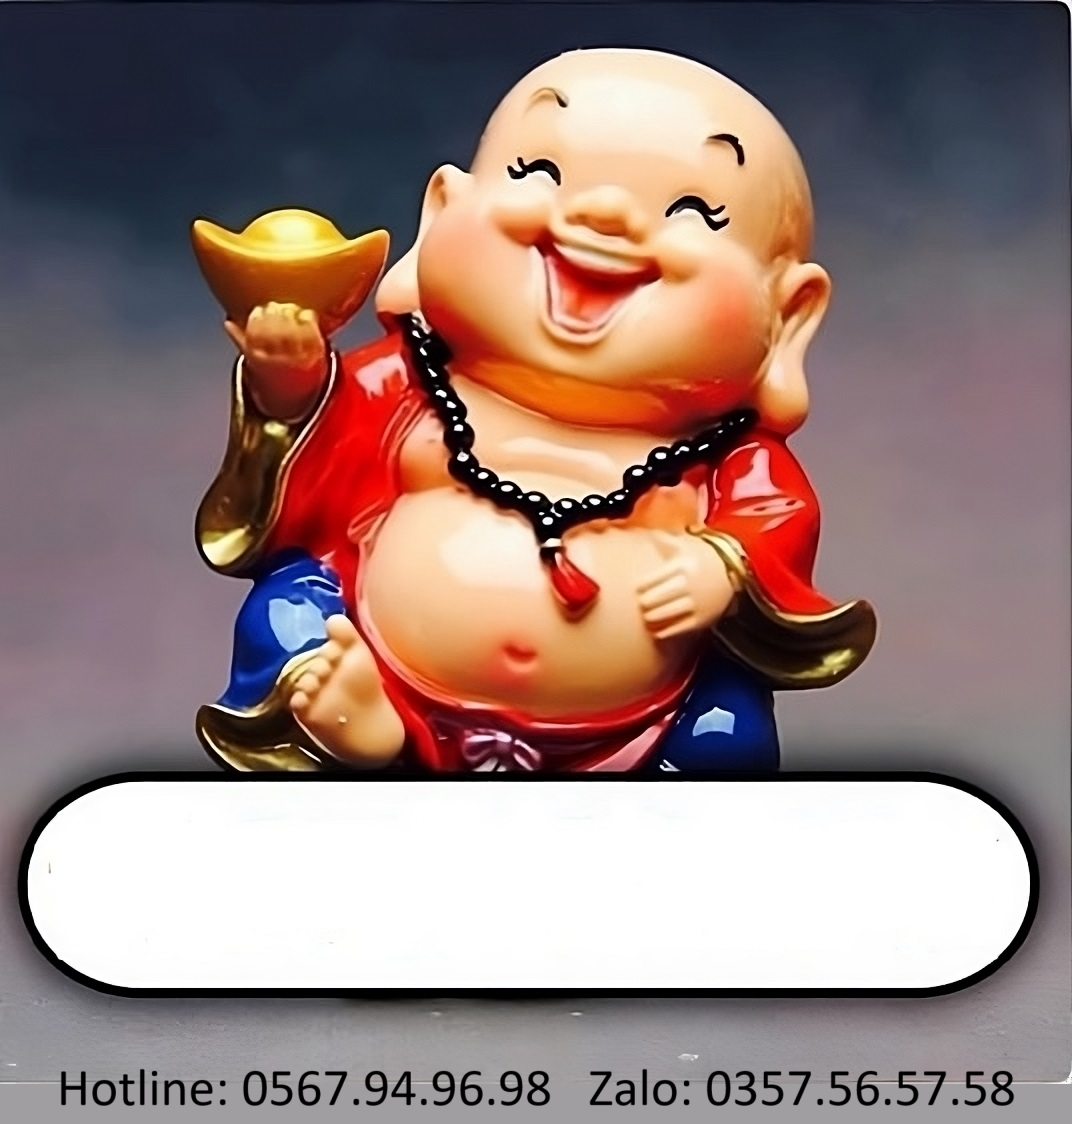
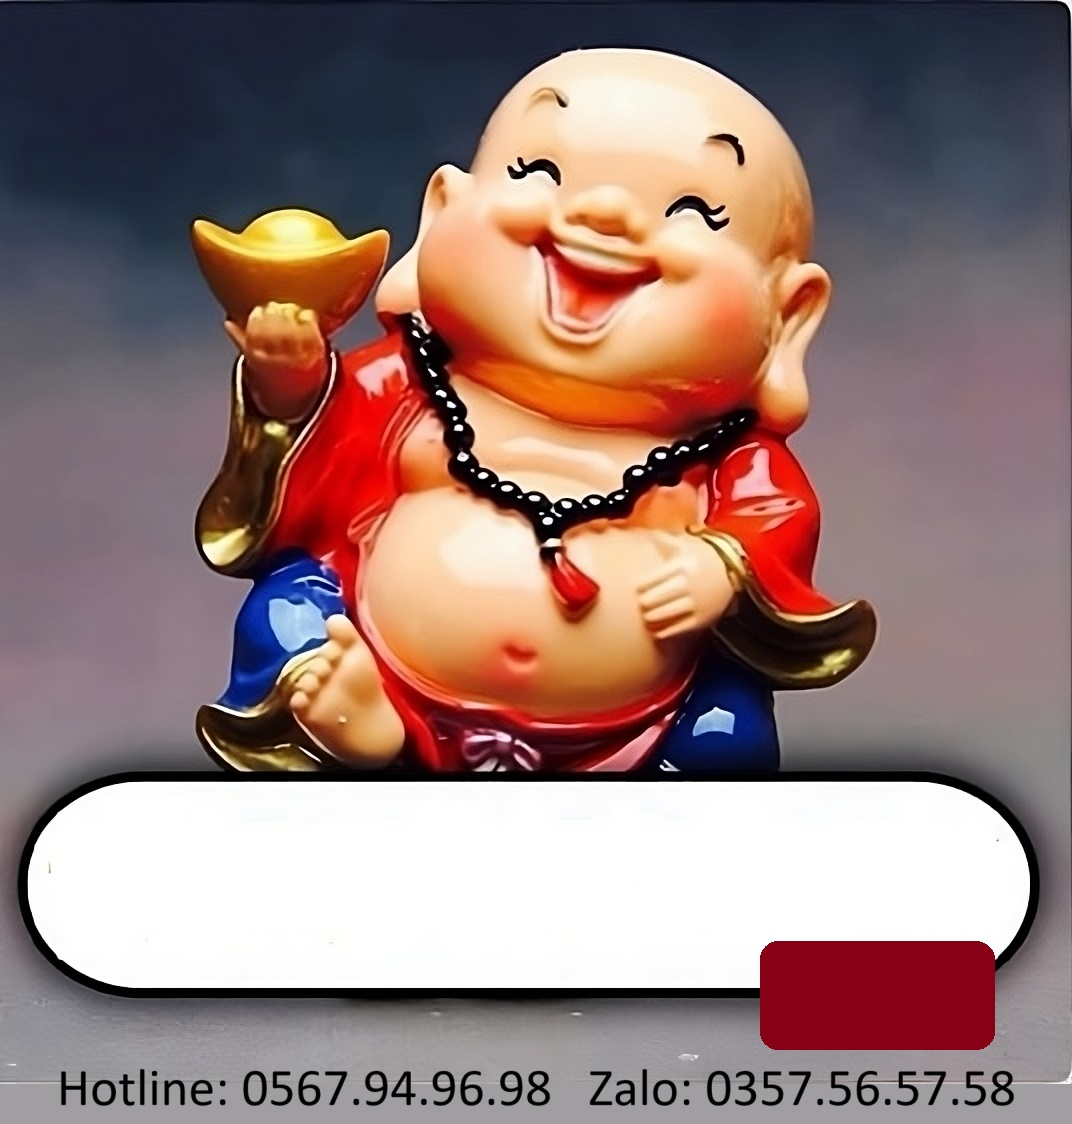
fix text pos

Changed region(s): [[0.708, 0.8096, 0.9543, 0.9342]]

diff --git a/src/App.js b/src/App.js
@@ -39,13 +39,13 @@ const textStyle = [
     type: 1,
     downloadStyle: {
       phoneNumberCoor: { x: 150, y: 425, fontSize: "170px", color: RED },
-      typeCoor: { x: 30, y: 150, fontSize: "80px", color: "black" },
-      priceCoor: { x: 1030, y: 150, fontSize: "80px", color: "black" },
+      typeCoor: { x: 30, y: 150, fontSize: "100px", color: "black" },
+      priceCoor: { x: 900, y: 550, fontSize: "100px", color: "black" },
     },
     previewStyle: {
       phoneNumberCoor: { x: 35, y: 127, fontSize: "55px", color: RED },
       typeCoor: { x: 10, y: 45, fontSize: "30px", color: "black" },
-      priceCoor: { x: 280, y: 45, fontSize: "30px", color: "black" },
+      priceCoor: { x: 260, y: 165, fontSize: "30px", color: "black" },
       scale: 0.3,
     },
   },
@@ -67,13 +67,13 @@ const textStyle = [
     type: 3,
     downloadStyle: {
       phoneNumberCoor: { x: 100, y: 930, fontSize: "150px", color: RED },
-      typeCoor: { x: 30, y: 130, fontSize: "90px", color: RED },
-      priceCoor: { x: 820, y: 130, fontSize: "90px", color: RED },
+      typeCoor: { x: 30, y: 750, fontSize: "85px", color: RED },
+      priceCoor: { x: 780, y: 1023, fontSize: "85px", color: WHITE },
     },
     previewStyle: {
-      phoneNumberCoor: { x: 50, y: 325, fontSize: "50px", color: RED },
-      typeCoor: { x: 20, y: 40, fontSize: "32px", color: RED },
-      priceCoor: { x: 290, y: 40, fontSize: "32px", color: RED },
+      phoneNumberCoor: { x: 30, y: 325, fontSize: "50px", color: RED },
+      typeCoor: { x: 20, y: 265, fontSize: "32px", color: RED },
+      priceCoor: { x: 275, y: 360, fontSize: "28px", color: WHITE },
       scale: 0.35,
     },
   },
@@ -133,13 +133,14 @@ function App() {
           if (isCorrectTemplate) {
             const tempList = [];
             json.forEach((item) => {
+              console.log(item);
               tempList.push({
                 phoneNumber:
                   item["SIM"].toString().charAt(0) !== "0"
                     ? "0" + item["SIM"]
                     : item["SIM"],
-                price: item["GiÁ"],
-                type: item["mạng"],
+                price: item["GIÁ"],
+                type: item["MẠNG"],
               });
             });
             setListPhone([...tempList]);
@@ -157,12 +158,14 @@ function App() {
     }
   };
 
-  const draw = (value, item, ctx) => {
+  const draw = (value, item, ctx, canvas, isPhone) => {
     const { x, y, fontSize, color } = item;
     if (value) {
       ctx.font = fontSize + " arial";
       ctx.fillStyle = color;
-      ctx.fillText(value, x, y);
+      const textWidth = ctx.measureText(value).width;
+
+      ctx.fillText(value, isPhone ? canvas.width / 2 - textWidth / 2 : x, y);
     }
   };
 
@@ -193,18 +196,18 @@ function App() {
         const { phoneNumber, price, type } = itemPhone;
 
         //Draw type
-        draw(type, typeCoor, ctx);
+        draw(type, typeCoor, ctx, canvas);
         //Draw price
-        draw(price, priceCoor, ctx);
+        draw(price, priceCoor, ctx, canvas);
         //Draw phone number
-        draw(phoneNumber, phoneNumberCoor, ctx);
+        draw(phoneNumber, phoneNumberCoor, ctx, canvas, true);
       }
     };
 
     img.src = image;
   };
 
-  const generateDownloadImg = (image, style, itemPhone) => {
+  const generateDownloadImg = (image, style, itemPhone, isDownloadAll) => {
     const canvas = document.getElementById("canvasDownload");
     const { downloadStyle = {} } = style || {};
     const { phoneNumberCoor, typeCoor, priceCoor } = downloadStyle;
@@ -221,19 +224,20 @@ function App() {
 
       // Draw the image on to the canvas.
       ctx.drawImage(img, 0, 0, img.naturalWidth, img.naturalHeight);
+
       if (itemPhone) {
         const { phoneNumber, price, type } = itemPhone;
 
         //Draw type
-        draw(type, typeCoor, ctx);
+        draw(type, typeCoor, ctx, canvas);
         //Draw price
-        draw(price, priceCoor, ctx);
+        draw(price, priceCoor, ctx, canvas);
         //Draw phone number
-        draw(phoneNumber, phoneNumberCoor, ctx);
+        draw(phoneNumber, phoneNumberCoor, ctx, canvas, true);
         // (B3) "FORCE DOWNLOAD"
+        if (isDownloadAll) onDownload();
       }
     };
-
     img.src = image;
   };
 
@@ -261,6 +265,15 @@ function App() {
     anchor.download = "image.jpeg";
     anchor.click();
     anchor.remove();
+  };
+
+  const onDownloadAll = () => {
+    const style = textStyle.find((item) => item.type == selectedImage);
+    const imageItem = listImage.find((item) => item.type == selectedImage);
+    listPhone.forEach((itemPhone) => {
+      generateDownloadImg(imageItem.image, style, itemPhone, true);
+    });
+    setDefaultState();
   };
 
   return (
@@ -335,13 +348,24 @@ function App() {
             style={{ objectFit: "contain" }}
           ></canvas>
           <canvas id="canvasDownload" style={{ display: "none" }} />
-          <button
-            className="btn btn-primary"
-            onClick={() => onDownload()}
-            style={{ marginTop: "10px" }}
-          >
-            Download
-          </button>
+          <div style={{ display: "flex", flexDirection: "row", gap: "10px" }}>
+            <button
+              className="btn btn-primary"
+              onClick={() => onDownload()}
+              style={{ marginTop: "10px" }}
+              disabled={listPhone.length === 0}
+            >
+              Download
+            </button>
+            <button
+              className="btn btn-primary"
+              onClick={() => onDownloadAll()}
+              style={{ marginTop: "10px" }}
+              disabled={listPhone.length === 0}
+            >
+              Download All
+            </button>
+          </div>
         </div>
       </div>
     </div>
